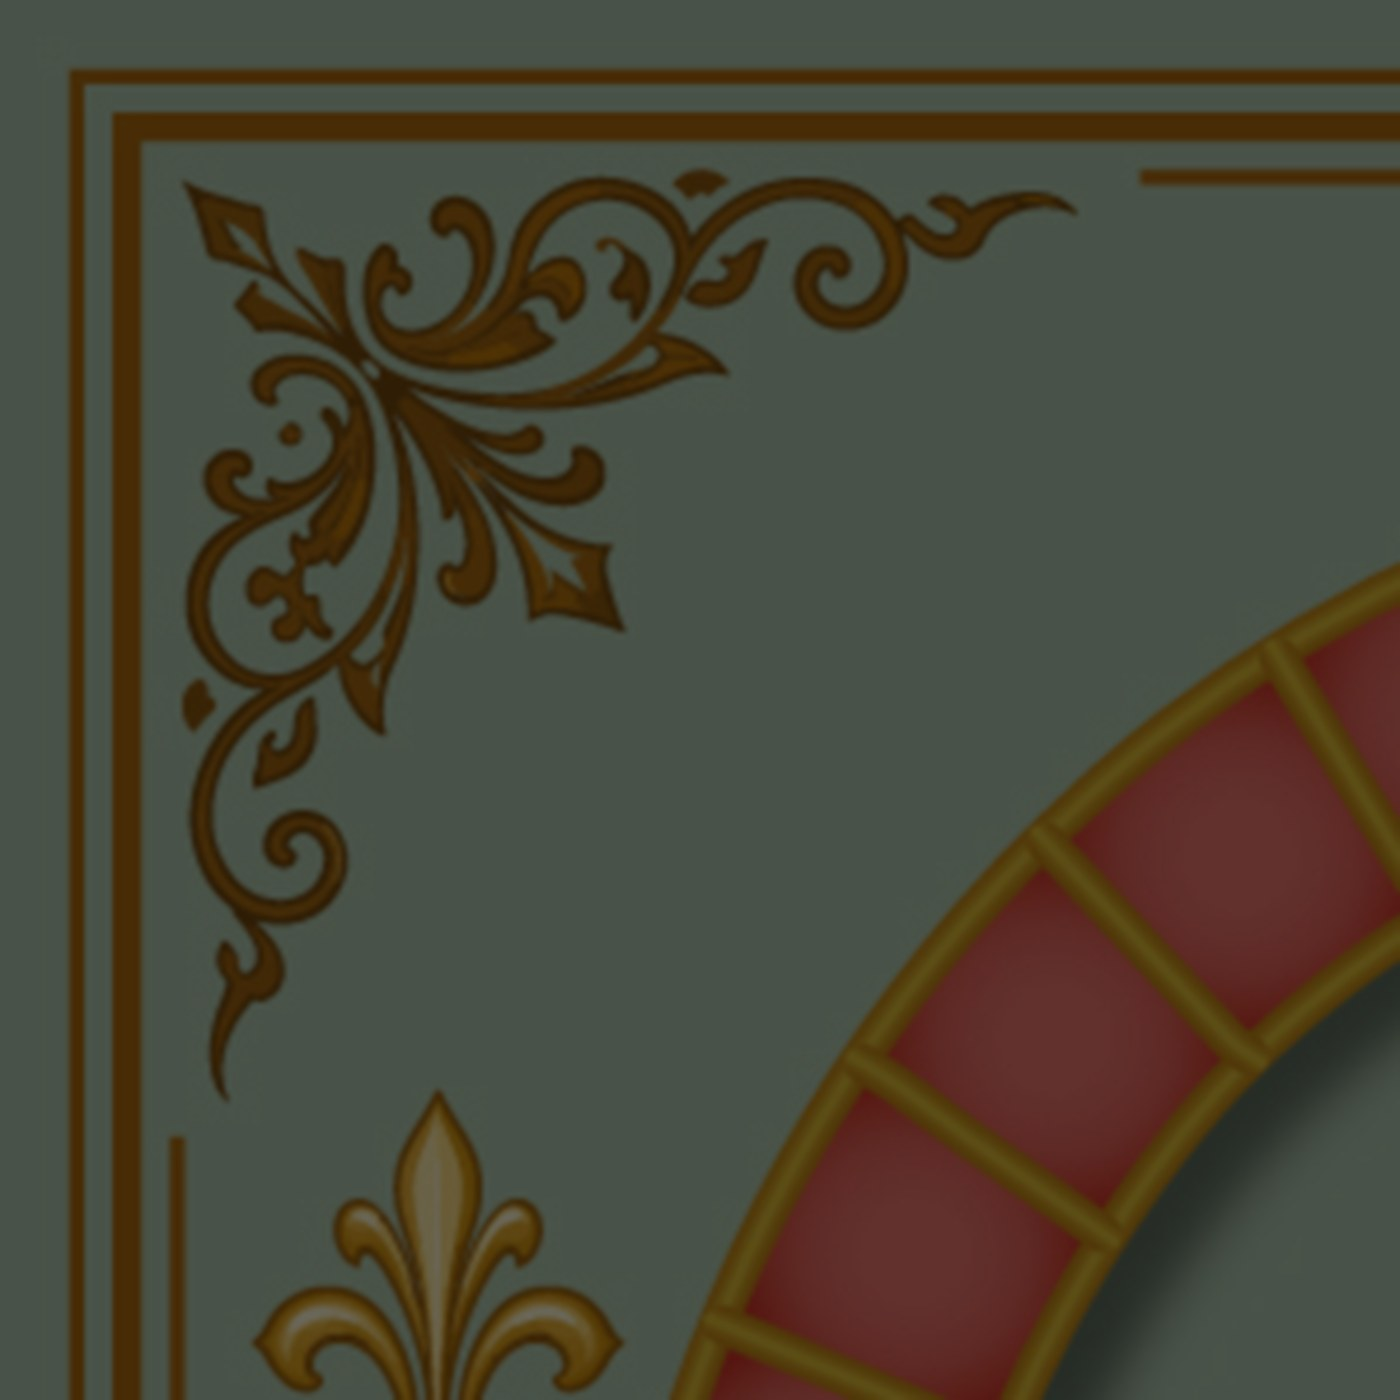
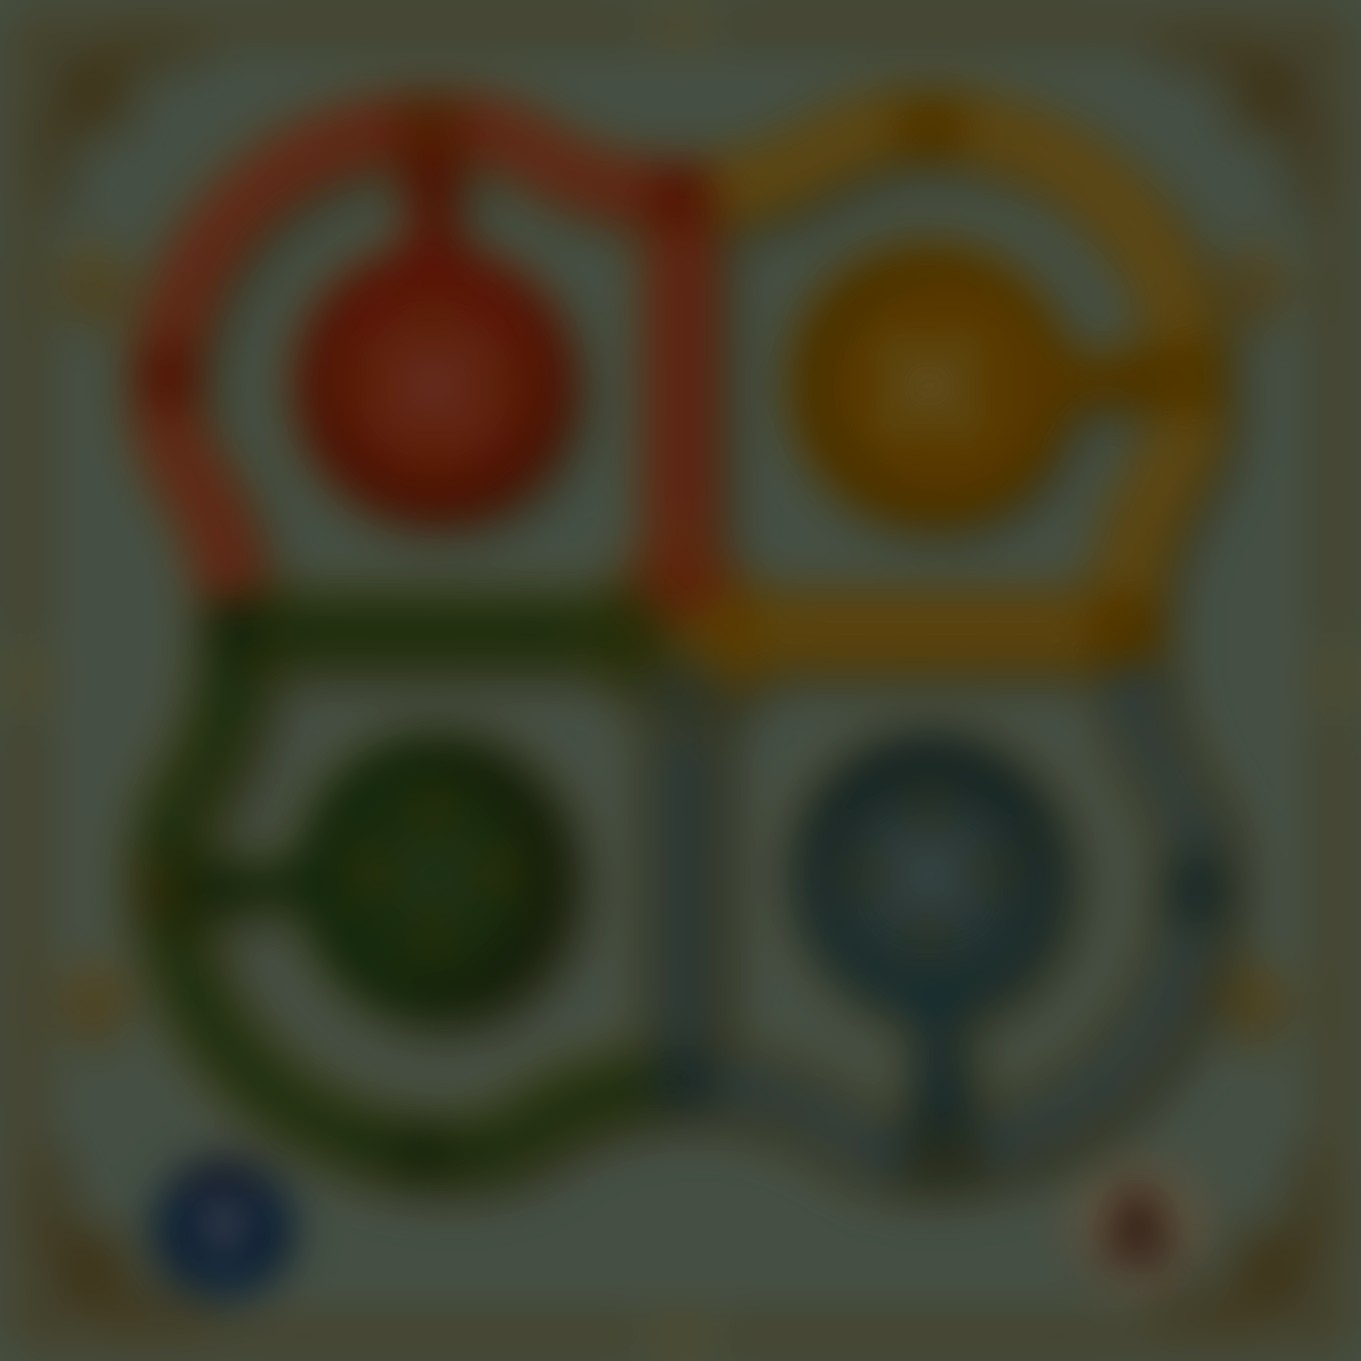
feat: add exit button, themed HUD, and stacking offset for overlapping pieces

diff --git a/src/ui/GameBoardScreen.tsx b/src/ui/GameBoardScreen.tsx
@@ -6,7 +6,17 @@ import { getColor } from '../core/colorPalette'
 import { useTurnManager } from '../hooks/useTurnManager'
 import { BoardScene } from '../scene/BoardScene'
 
-export function GameBoardScreen({ definition, colors }: { definition: BoardDefinition; colors: PieceColor[] }) {
+const BRAND_GOLD = '#ccb154'
+
+export function GameBoardScreen({
+  definition,
+  colors,
+  onExit,
+}: {
+  definition: BoardDefinition
+  colors: PieceColor[]
+  onExit: () => void
+}) {
   const session = useMemo(() => beginLocalGame(definition, colors), [definition, colors])
   const { currentPlayer, lastRoll, rolling, pendingMoves, winner, moveAnimation, rollDice, chooseMove, clearMoveAnimation } =
     useTurnManager(session.turnManager)
@@ -27,34 +37,94 @@ export function GameBoardScreen({ definition, colors }: { definition: BoardDefin
         onAnimationComplete={clearMoveAnimation}
       />
 
-      <div style={hudStyle}>
-        <div style={{ color: getColor(currentPlayer.color), fontWeight: 'bold', fontSize: 18 }}>
-          Turno: {currentPlayer.color}
+      <div style={hudPanelStyle}>
+        <div style={turnRowStyle}>
+          <span style={{ ...turnDotStyle, background: getColor(currentPlayer.color) }} />
+          <span style={{ fontWeight: 600, fontSize: 16 }}>Turno: {currentPlayer.color}</span>
         </div>
-        {pendingMoves.length > 0 && <div>Elegí una ficha para mover</div>}
-        <button onClick={() => canRoll && rollDice()} disabled={!canRoll} style={{ marginTop: 8, padding: '8px 16px' }}>
+        {pendingMoves.length > 0 && <div style={hintTextStyle}>Elegí una ficha para mover</div>}
+        <button onClick={() => canRoll && rollDice()} disabled={!canRoll} style={rollButtonStyle(canRoll)}>
           {rolling ? 'Rodando...' : 'Tirar dado'}
         </button>
       </div>
 
+      <button onClick={onExit} title="Salir del juego" style={exitButtonStyle}>
+        ✕ Salir
+      </button>
+
       {winner && (
         <div style={overlayStyle}>
-          <div style={{ color: getColor(winner.color), fontSize: 32, fontWeight: 'bold' }}>
-            ¡{winner.color} gana!
-          </div>
+          <div style={{ color: getColor(winner.color), fontSize: 32, fontWeight: 'bold' }}>¡{winner.color} gana!</div>
+          <button onClick={onExit} style={{ ...rollButtonStyle(true), marginTop: 8 }}>
+            Volver al inicio
+          </button>
         </div>
       )}
     </div>
   )
 }
 
-const hudStyle: React.CSSProperties = {
+const hudPanelStyle: React.CSSProperties = {
   position: 'absolute',
-  top: 12,
-  left: 12,
-  background: 'rgba(255,255,255,0.85)',
-  padding: '10px 14px',
+  top: 16,
+  left: 16,
+  display: 'flex',
+  flexDirection: 'column',
+  gap: 10,
+  background: 'rgba(30, 34, 30, 0.82)',
+  border: `1px solid ${BRAND_GOLD}`,
+  padding: '14px 18px',
+  borderRadius: 10,
+  fontFamily: 'system-ui, sans-serif',
+  color: '#f2ede0',
+  boxShadow: '0 4px 16px rgba(0,0,0,0.4)',
+  minWidth: 160,
+}
+
+const turnRowStyle: React.CSSProperties = {
+  display: 'flex',
+  alignItems: 'center',
+  gap: 8,
+}
+
+const turnDotStyle: React.CSSProperties = {
+  width: 12,
+  height: 12,
+  borderRadius: '50%',
+  boxShadow: '0 0 6px rgba(0,0,0,0.5)',
+  flexShrink: 0,
+}
+
+const hintTextStyle: React.CSSProperties = {
+  fontSize: 13,
+  color: '#d8d2c2',
+}
+
+function rollButtonStyle(enabled: boolean): React.CSSProperties {
+  return {
+    padding: '9px 16px',
+    fontSize: 15,
+    fontWeight: 600,
+    background: enabled ? BRAND_GOLD : '#5c5c54',
+    color: enabled ? '#2a2a2a' : '#a8a8a0',
+    border: 'none',
+    borderRadius: 8,
+    cursor: enabled ? 'pointer' : 'default',
+  }
+}
+
+const exitButtonStyle: React.CSSProperties = {
+  position: 'absolute',
+  top: 16,
+  right: 16,
+  padding: '8px 14px',
+  fontSize: 14,
+  fontWeight: 600,
+  background: 'rgba(30, 34, 30, 0.82)',
+  border: `1px solid ${BRAND_GOLD}`,
   borderRadius: 8,
+  color: '#f2ede0',
+  cursor: 'pointer',
   fontFamily: 'system-ui, sans-serif',
 }
 
@@ -62,7 +132,9 @@ const overlayStyle: React.CSSProperties = {
   position: 'absolute',
   inset: 0,
   display: 'flex',
+  flexDirection: 'column',
   alignItems: 'center',
   justifyContent: 'center',
+  gap: 8,
   background: 'rgba(0,0,0,0.55)',
 }

diff --git a/src/scene/BoardScene.tsx b/src/scene/BoardScene.tsx
@@ -14,6 +14,24 @@ import { toWorldPosition } from './boardGeometry'
 
 const INTRO_STAGGER = 0.09 // seconds between each piece's drop-in entrance, for a cascading effect
 
+// When multiple pieces land on the same square, they'd otherwise render fully overlapping and
+// look like a single piece (or like a piece vanished/jumped oddly when one splits off to move).
+// Spread them into a small tight cluster instead, same visual language as the yard's 4 slots.
+const STACK_OFFSETS: [number, number][] = [
+  [0, 0],
+  [-0.11, -0.11],
+  [0.11, -0.11],
+  [-0.11, 0.11],
+  [0.11, 0.11],
+  [0, -0.16],
+]
+
+function stackKeyFor(piece: Piece): string | null {
+  if (piece.state === 'OnTrack') return `track-${piece.trackPosition}`
+  if (piece.state === 'InHomeCorridor') return `corridor-${piece.color}-${piece.corridorPosition}`
+  return null // InYard has its own 4 distinct slots already; Finished pieces don't need separating
+}
+
 interface BoardSceneProps {
   definition: BoardDefinition
   players: PlayerState[]
@@ -40,6 +58,14 @@ export function BoardScene({
   const selectablePieces = new Set(pendingMoves.map((m) => m.piece))
   const allPieces = players.flatMap((player) => player.pieces)
 
+  const stackGroups = new Map<string, Piece[]>()
+  for (const piece of allPieces) {
+    const key = stackKeyFor(piece)
+    if (!key) continue
+    if (!stackGroups.has(key)) stackGroups.set(key, [])
+    stackGroups.get(key)!.push(piece)
+  }
+
   return (
     <Canvas shadows camera={{ position: [0, 7, 5], fov: 40 }}>
       <ambientLight intensity={0.7} />
@@ -51,6 +77,16 @@ export function BoardScene({
       {allPieces.map((piece, index) => {
         const waypoint = getPieceWaypoint(piece, definition)
         if (!waypoint) return null
+
+        const worldPos = toWorldPosition(waypoint)
+        const stackKey = stackKeyFor(piece)
+        const group = stackKey ? stackGroups.get(stackKey) : undefined
+        const restPosition: [number, number, number] = worldPos
+        if (group && group.length > 1) {
+          const [ox, oz] = STACK_OFFSETS[group.indexOf(piece) % STACK_OFFSETS.length]
+          restPosition[0] += ox
+          restPosition[2] += oz
+        }
 
         const isAnimating = moveAnimation?.piece === piece
         let hopFrom: [number, number, number] | null = null
@@ -73,7 +109,7 @@ export function BoardScene({
           <PieceMesh
             key={`${piece.color}-${piece.pieceIndex}`}
             piece={piece}
-            restPosition={toWorldPosition(waypoint)}
+            restPosition={restPosition}
             hopFrom={hopFrom}
             hops={hops}
             onHopsComplete={isAnimating ? onAnimationComplete : undefined}

diff --git a/src/ui/PlayerCountSelector.tsx b/src/ui/PlayerCountSelector.tsx
@@ -9,7 +9,7 @@ export function PlayerCountSelector({ onConfirm }: { onConfirm: (count: number) 
         justifyContent: 'center',
         gap: 20,
         color: '#f2ede0',
-        backgroundImage: 'url(/backgrounds/start-bg.jpg)',
+        backgroundImage: 'radial-gradient(ellipse at center, rgba(0,0,0,0) 0%, rgba(0,0,0,0.45) 100%), url(/backgrounds/start-bg.jpg)',
         backgroundSize: 'cover',
         backgroundPosition: 'center',
       }}

diff --git a/src/ui/StartScreen.tsx b/src/ui/StartScreen.tsx
@@ -13,7 +13,7 @@ export function StartScreen({ onPlayLocal }: { onPlayLocal: () => void }) {
         justifyContent: 'center',
         gap: 24,
         color: BRAND_TEXT,
-        backgroundImage: 'url(/backgrounds/start-bg.jpg)',
+        backgroundImage: 'radial-gradient(ellipse at center, rgba(0,0,0,0) 0%, rgba(0,0,0,0.45) 100%), url(/backgrounds/start-bg.jpg)',
         backgroundSize: 'cover',
         backgroundPosition: 'center',
       }}

diff --git a/src/App.tsx b/src/App.tsx
@@ -34,6 +34,7 @@ export default function App() {
         <GameBoardScreen
           definition={BOARD_DEFINITIONS[playerCount]}
           colors={DEFAULT_COLOR_ORDER.slice(0, playerCount)}
+          onExit={() => setScreen('start')}
         />
       )}
     </div>